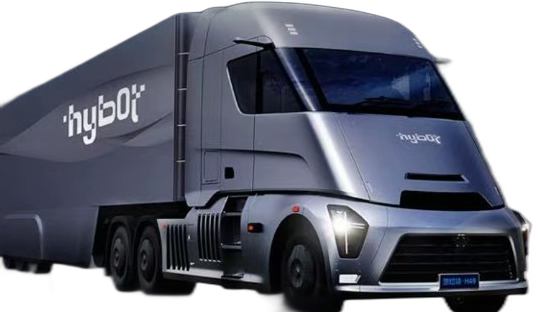
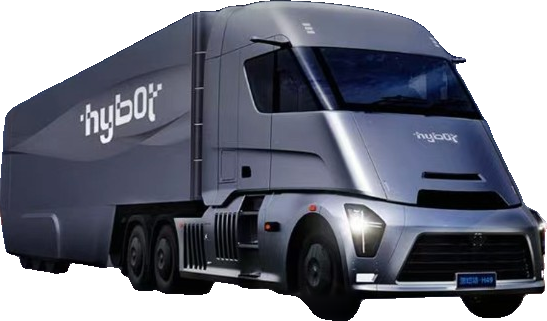
fix(intro): 重新抠车去掉方块残影 + 移除电流光 + 放大车体盖住背景
1. 用 u2net + 边缘清理重新生成 truck-cutout.png，去除半透明方块
2. 删除 intro-hero-sweep 电流光效果
3. 车放大到 72vw 并调整位置，完全覆盖背景极光图中的原始卡车

diff --git a/src/styles.css b/src/styles.css
@@ -838,36 +838,20 @@ body::before {
   100% { transform: scale(1.12) translate(2%, 1%); opacity: 0.28; }
 }
 
-/* 氢车盖在原图卡车位置：画面中下、居中 */
+/* 氢车盖住背景原图里的卡车：放大、居中偏右下（对齐原图卡车位置） */
 .intro-hero-truck {
   position: absolute;
   left: 50%;
-  bottom: 9%;
-  width: min(58vw, 760px);
-  transform: translateX(-50%);
+  bottom: 4%;
+  width: min(72vw, 920px);
+  transform: translateX(-46%);
   z-index: 2;
   pointer-events: none;
 }
 .intro-hero-truck img {
   width: 100%; height: auto;
   display: block;
-  filter: drop-shadow(0 18px 28px rgba(0, 0, 0, 0.55));
-}
-/* 淡青绿电流：从车尾滑到车头，慢，不做成一根死线 */
-.intro-hero-sweep {
-  position: absolute; inset: 18% 8% 28% 6%;
-  pointer-events: none;
-  background: linear-gradient(90deg, transparent 0%, rgba(90, 230, 210, 0.0) 35%, rgba(90, 230, 210, 0.38) 50%, rgba(90, 230, 210, 0.0) 65%, transparent 100%);
-  mix-blend-mode: screen;
-  animation: truck-current 7.5s linear infinite;
-  mask-image: linear-gradient(180deg, transparent, #000 30%, #000 70%, transparent);
-  -webkit-mask-image: linear-gradient(180deg, transparent, #000 30%, #000 70%, transparent);
-}
-@keyframes truck-current {
-  0% { transform: translateX(-70%); opacity: 0; }
-  12% { opacity: 0.85; }
-  88% { opacity: 0.85; }
-  100% { transform: translateX(70%); opacity: 0; }
+  filter: drop-shadow(0 12px 32px rgba(0, 0, 0, 0.6));
 }
 
 /* 品牌层：官方 logo 原图直接贴，不再重绘字体 */

diff --git a/src/components/IntroScreen.tsx b/src/components/IntroScreen.tsx
@@ -35,7 +35,6 @@ export default function IntroScreen({ onEnter }: Props) {
 
       <div className="intro-hero-truck" aria-hidden="true">
         <img src="/truck-cutout.png" alt="" />
-        <span className="intro-hero-sweep" />
       </div>
 
       <div className="intro-brand" onClick={(e) => e.stopPropagation()}>
